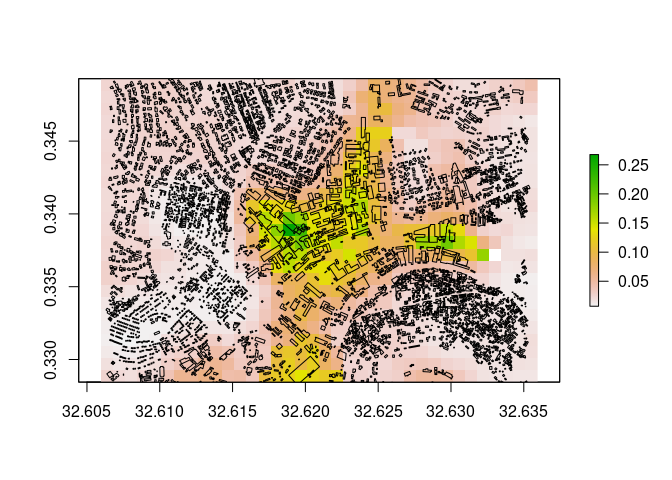
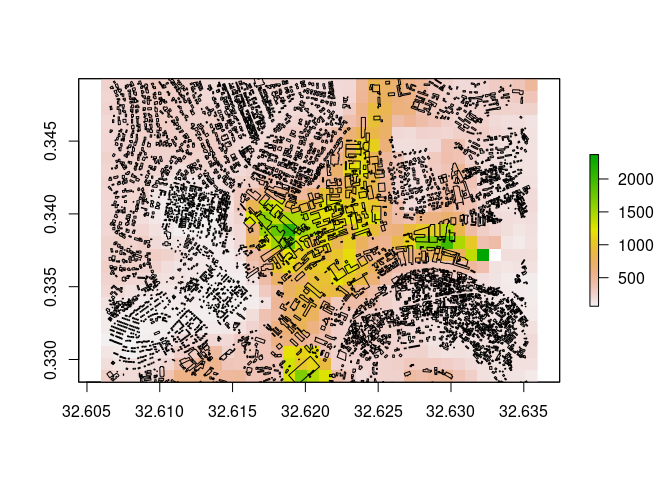
update readme md

diff --git a/README.md b/README.md
@@ -1,74 +1,100 @@
 
-
-
 <!-- README.md is generated from README.Rmd. Please edit that file -->
 
 # foot: An R package for processing building footprints
-*[WorldPop Research Group, University of Southampton](https://www.worldpop.org/)*
 
-The `foot` package is designed to provide a set of consistent and flexible tools
-for processing 2D vector representations of buildings. The functionality
-includes basic geometry and morphology measures, distance and clustering
-metrics. These calculations are supported with helper functions for spatial
-intersections and tiled reading/writing of data. Two main wrapper functions
-provide standardised workflows for processing building polygons to summarise
-metrics within polygons or on a gridded surface.
+*[WorldPop Research Group, University of
+Southampton](https://www.worldpop.org/)*
+
+While remote sensing has long been used to monitor urbanisation
+patterns, in recent years there has been an increasing availability in
+finer resolution satellite data covering large areas of the globe. This
+very high resolution imagery (often \<1 m spatial resolution), combined
+with increased computing power is producing new datasets on urban areas.
+In particular, machine learning algorithms are being applied to detect,
+automatically extract, and map full sets of building features in a
+scene. These automated methods add to the manually digitised information
+such as from [OpenStreetMap](http://www.openstreetmap.org) and the
+property datasets available from some city governments.
+
+Such building footprint datasets provide a new level of detail on urban
+areas, particularly in places which might otherwise lack detailed maps
+on cities and rapidly growing areas. Despite their spatial detail,
+building footprints typically lack any other attribute information to
+help differentiate land uses or other neighbourhood characteristics.
+However, the size, shape, orientation, and clustering of structures
+produces a spatial pattern that can suggest areas of different land use
+or activities.
+
+The `foot` package is designed to provide a set of consistent and
+flexible tools for processing 2D vector representations of buildings and
+calculating urban morphology measurements. The functionality includes
+basic geometry and morphology measures, distance and clustering metrics.
+These calculations are supported with helper functions for spatial
+intersections and tiled reading/writing of data.
 
 ## Installation
-The `foot` package can be installed directly from Github.
-```r
-devtools::install_github("wgpg/foot", auth_token="tkn", build_vignettes=TRUE)
-```
-where, "tkn" is an authentication token. This is required because `foot` is
-still in a private repo. You can obtain a token from
-[https://github.com/settings/tokens](https://github.com/settings/tokens) and
-generating a personal token with 'repo' level access. This will be a long
-character string.
 
-Alternatively, clone the repository and install using the code in using the code
-in `./pkg_build.R`
+The `foot` package can be installed directly from Github.
+
+``` r
+devtools::install_github("wgpg/foot", build_vignettes=TRUE)
+```
 
 Note that building and running the code may require additional packages:
-`stars`, `raster`, `sf`, `data.table`, `lwgeom`, `purrr`. et al.
+`stars`, `raster`, `sf`, `data.table`, `lwgeom`, `mmap`. et al.
 
 ## Quick Start
-A sample dataset of building footprints is provided: 
-```
-# load the sample
-data("kampala")
 
-# 2D vector building polygons
-kampala$buildings
-```
+A sample dataset of building footprints is provided:
 
-Read the vignette on basic usage `vignette(footsteps)`. For more advanced uses
-and creating gridded data layers, see `vignette(bigfoot)`.
+    # load the sample
+    data("kampala", package="foot")
+    
+    # 2D vector building polygons
+    kampala$buildings
+
+### Vignettes
+
+Vignettes are provided as an introduction to `foot`. The vignette on
+basic usage is available from `vignette("footsteps", package="foot")`.
+The supplied datasets can be used to replicate this vignette. For a
+discussion and example of creating gridded data layers, see
+`vignette("bigfoot", package="foot")`. Finally, techniques for using
+custom morphology metric functions with `foot` is demonstrated in
+`vignette("cobbler", package="foot")`. These vignettes are also
+available from this package website.
 
 ### Basic Usage
 
-```r
+``` r
 library(foot)
+
 # load sample data
-data("kampala")
+data("kampala", package="foot")
 buildings <- kampala$buildings
 zones <- kampala$adminZones
 grid <- kampala$mastergrid
 ```
 
-The `foot` package provides tools to calculate and summarise building morphology
-measures at multiple scales. These include building-level measures.
+The `foot` package provides tools to calculate and summarise building
+morphology measures at multiple scales. These include building-level
+geometry measures.
 
-```r
+``` r
 # building-level metrics
-buildings$built_area <- fs_area(buildings, 
-                                unit="m^2")
+buildings$built_area <- calculate_footstats(buildings, what="area")
+#> Selecting metrics 
+#> Setting control values. 
+#> Pre-calculating areas 
+#> No summary functions found, returning metrics.
   head(buildings)
 #> Simple feature collection with 6 features and 2 fields
 #> geometry type:  POLYGON
 #> dimension:      XY
 #> bbox:           xmin: 32.60765 ymin: 0.341117 xmax: 32.61288 ymax: 0.345773
 #> geographic CRS: WGS 84
-#>   FID_1                       geometry      built_area
+#>   FID_1                       geometry            area
 #> 1   130 POLYGON ((32.61282 0.341132...  22.00824 [m^2]
 #> 2   132 POLYGON ((32.61229 0.341693... 220.39011 [m^2]
 #> 3   133 POLYGON ((32.60817 0.342753...  38.95750 [m^2]
@@ -77,118 +103,114 @@ buildings$built_area <- fs_area(buildings,
 #> 6   138 POLYGON ((32.60765 0.345604... 164.00931 [m^2]
 ```
 
-As well as area-level summaries.
+As well as area-level summaries within spatial zones.
 
-```r
+``` r
 # Area-level summary metrics
-# index the buildings to zones
+# Optionally, create an index for the buildings to zones
 building_zone <- zonalIndex(buildings, 
                             zones, 
                             zoneField = "Id", 
                             returnObject = TRUE)
 
-# summarise within small areal units
-admin_area <- fs_area_mean(building_zone, 
-                           index="Id", 
-                           unit="m^2")
+# summarise metrics within small areal units
+admin_area <- calculate_footstats(building_zone, 
+                                  zone="Id", 
+                                  what="area", how="mean")
+#> Selecting metrics 
+#> Setting control values. 
+#> Creating zonal index 
+#> Pre-calculating areas 
+#> 
+#> Calculating  1  metrics ... 
+#>    area mean  
+#> Finished calculating metrics.
   head(admin_area)
-#>    index fs_area_m^2_mean
-#> 1:     1   402.5984 [m^2]
-#> 2:     2   211.0534 [m^2]
-#> 3:     3   525.0747 [m^2]
-#> 4:     4   555.0931 [m^2]
-#> 5:     5   568.7154 [m^2]
-#> 6:     6  1021.9529 [m^2]
+#>    Id       area_mean
+#> 1:  1  402.5984 [m^2]
+#> 2:  2  211.0534 [m^2]
+#> 3:  3  525.0747 [m^2]
+#> 4:  4  555.0931 [m^2]
+#> 5:  5  568.7154 [m^2]
+#> 6:  6 1021.9529 [m^2]
 ```
 
-Or gridded summary outputs, with the options to include a circular focal window.
+Or gridded summary outputs, with the options to include a circular focal
+window.
 
-```r
-# calculated along a raster within a focal window
+``` r
+# calculated along a raster within a circular focal window
 gridded <- calculate_bigfoot(buildings, 
-                             metrics="area_mean", 
+                             what="area", how="mean",
                              focalRadius=200,
-                             template=grid)
+                             template=grid,
+                             outputPath=tempdir())
+#> Selecting metrics 
+#> Setting control values. 
+#> Creating template output grids 
+#> Creating list of processing tiles 
+#> Setting up cluster...
+#> Begin parallel tile processing: 2020-10-20 18:28:25
+#> 
+#> Finished processing all tiles: 2020-10-20 18:28:30
 
   raster::plot(raster::raster(gridded))
   plot(sf::st_geometry(buildings), add=TRUE)
 ```
 
-<img src="man/figures/REAsDME-unnamed-chunk-4-1.png" title="plot of chunk unnamed-chunk-4" alt="plot of chunk unnamed-chunk-4" width="100%" />
-
+<img src="man/figures/REAsDME-unnamed-chunk-4-1.png" width="100%" />
 
 ### Outputs
-Rasters (or tables):  
-  
-1. Binary settlement indicators
-2. Counts of structures
-3. Building area (total, mean, median, min, max, standard dev., coeff. var.)
-4. Building perimeter (total, mean, median, min, max, standard dev., coeff. var.)
-5. Nearest neighbour distance (mean, median, standard dev.)
-6. Nearest neighbour index
-7. Structure orientation angle (normalised entropy)
-8. Compactness (Polsby-Popper) (mean, median)
-9. Roundess (mean, median)
 
-A full list of function names can be retrieved with `get_fs_metrics()`.
+Rasters in GeoTiff format or data tables:
+
+1.  Binary settlement indicators
+2.  Counts of structures
+3.  Building area
+4.  Building perimeter
+5.  Nearest neighbour distance
+6.  Nearest neighbour index
+7.  Structure orientation angle (normalised entropy)
+8.  Compactness (Polsby-Popper)
+9.  Roundness
+
+A full list of characteristics and summary function names can be
+retrieved with `foot::list_fs()`.
 
 ## Contributions
-Contributions are welcome. Raise or respond to an issue, or create a new branch
-to develop a feature/modification and submit a pull request.
+
+Contributions are welcome. Raise or respond to an issue, or create a new
+branch to develop a feature/modification and submit a pull request.
 
 ## Acknowledgements
-This work was undertaken by members of the WorldPop Research Group at the
-University of Southampton. Funding came from the Bill and Melinda Gates
-Foundation and the United Kingdom Foreign, Commonwealth & Development Office as
-part of the Geo-Referenced Infrastructure and Demographic Data for Development
-project (OPP1182408). Project partners in [GRID3](https://grid3.org/) include
-the WorldPop Research Group, the United Nations Population Fund, the Flowminder
-Foundation, and the Center for International Earth Science Information Network
-within the Earth Institute at Columbia University.
 
-## Repository Structure
-The repository is structured as an R package with an additional folder "wd" that
-is a working directory for storing scripts, input data, and output data.
+``` r
+citation("foot")
+#> 
+#> To cite package 'foot' in publications use:
+#> 
+#>   WorldPop Research Group, University of Southampton (2020). foot: An R package for processing building footprints morphometrics. R package version 0.5.
+#>   https://github.com/wpgp/foot
+#> 
+#> A BibTeX entry for LaTeX users is
+#> 
+#>   @Manual{,
+#>     title = {foot: An R package for processing building footprints morphometrics},
+#>     author = {{WorldPop Research Group, University of Southampton}},
+#>     year = {2020},
+#>     note = {R package version 0.5},
+#>     url = {https://github.com/wpgp/foot},
+#>   }
+```
 
-**./pkg_build.R**  
-A script to build the R package and install it on your machine. Optionally,
-builds vignettes.
-
-**./data/**
-Folder containing internal data files and sample building footprints for the
-vignettes.
-
-**./data-raw/**
-Folder containing the script to create the internal data files.
-
-**./doc/** 
-A folder containing the markdown and scripts for the vignettes.
-
-**./man/**  
-A folder containing function documentation created by Roxygen. **Do not edit
-these files.** Instead, use Roxygen to document each function (see
-`./R/footFun.R` for example) and build the documentation using
-`devtools::document()` (see `./pkg_build.R` for example).
-
-**./Meta/**
-A folder created as part of building vignettes.
-
-**./R/**  
-A folder containing functions for the R package. Each file contains a function
-with Roxygen documentation for the function at the top of the script.
-
-**./wd/code/**  
-A folder containing scripts. See the example script `./wd/code/example_script.R`
-for a template. Note that the vignette scripts and .html source have been copied
-here for easy access for users who don't want to install/build the package.
-
-**./wd/in/**  
-A folder containing input data. This folder is included in the .gitignore for
-the repository, so files you save here will not be uploaded to github or shared
-with collaborators on the repository.
-
-**./wd/out/**  
-A folder containing outputs from the scripts. This folder is included in the
-.gitignore for the repository, so files you save here will not be uploaded to
-github or shared with collaborators on the repository.
-
+This work was undertaken by members of the WorldPop Research Group at
+the University of Southampton (Chris Jochem, Edith Darín, Claire Dooley,
+Doug Leasure) with support from Andy Tatem and Attila Lazar. Funding
+support comes from the Bill and Melinda Gates Foundation and the United
+Kingdom Foreign, Commonwealth & Development Office as part of the
+Geo-Referenced Infrastructure and Demographic Data for Development
+project (GRID3) (OPP1182408). Project partners in
+[GRID3](https://grid3.org/) include the WorldPop Research Group, the
+United Nations Population Fund, the Flowminder Foundation, and the
+Center for International Earth Science Information Network within the
+Earth Institute at Columbia University.
